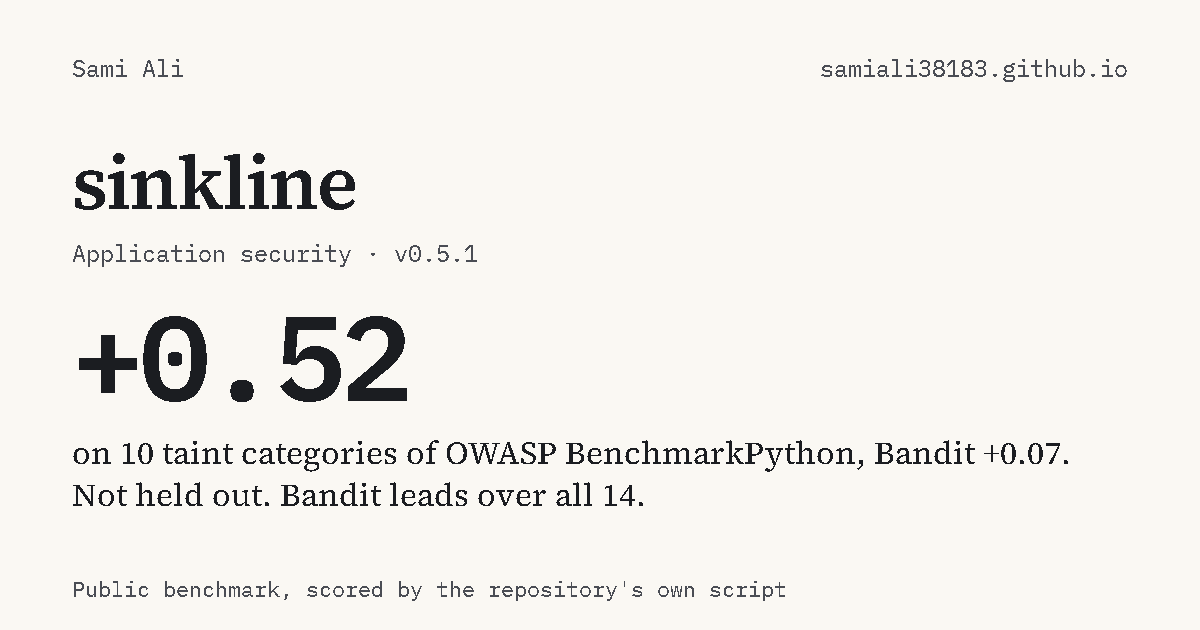
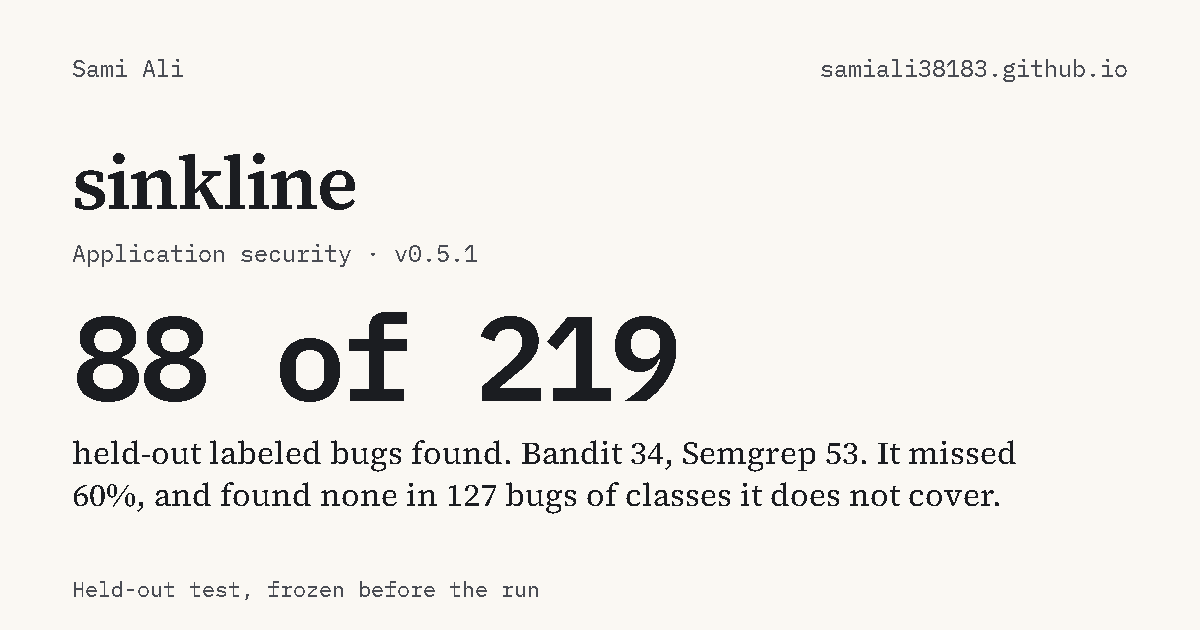
Lead sinkline with the held-out result, align hero buttons, fix archive heading order
sinkline now leads with the frozen held-out evaluation merged in the project repo (88 of 219 labeled bugs, Bandit 34, Semgrep 53); the earlier tuned benchmark stays below with its qualification. Resume and GitHub buttons share one height. Archive project names are h2 so heading order is sequential.

diff --git a/projects/sinkline/index.html b/projects/sinkline/index.html
@@ -4,7 +4,7 @@
 <meta charset="utf-8">
 <meta name="viewport" content="width=device-width, initial-scale=1">
 <title>sinkline: taint analysis for Python web apps | Sami Ali</title>
-<meta name="description" content="sinkline follows request data across functions and files. On BenchmarkPython it scores +0.52 on taint categories vs Bandit +0.07, but trails Bandit over all 14.">
+<meta name="description" content="sinkline follows request data across functions and files. On a frozen held-out set of 219 labeled bugs it found 88, against 34 for Bandit and 53 for Semgrep, and missed 60%.">
 <link rel="canonical" href="https://samiali38183.github.io/projects/sinkline/">
 <link rel="icon" href="/favicon.svg" type="image/svg+xml">
 <meta name="theme-color" content="#FAF8F3" media="(prefers-color-scheme: light)">
@@ -12,17 +12,17 @@
 <meta property="og:type" content="website">
 <meta property="og:site_name" content="Sami Ali">
 <meta property="og:title" content="sinkline: taint analysis for Python web apps | Sami Ali">
-<meta property="og:description" content="sinkline follows request data across functions and files. On BenchmarkPython it scores +0.52 on taint categories vs Bandit +0.07, but trails Bandit over all 14.">
+<meta property="og:description" content="sinkline follows request data across functions and files. On a frozen held-out set of 219 labeled bugs it found 88, against 34 for Bandit and 53 for Semgrep, and missed 60%.">
 <meta property="og:url" content="https://samiali38183.github.io/projects/sinkline/">
 <meta property="og:image" content="https://samiali38183.github.io/assets/og/sinkline.png">
 <meta property="og:image:width" content="1200">
 <meta property="og:image:height" content="630">
-<meta property="og:image:alt" content="sinkline: +0.52 on 10 taint categories of OWASP BenchmarkPython, Bandit +0.07. Not held out. Bandit leads over all 14.">
+<meta property="og:image:alt" content="sinkline: 88 of 219 held-out labeled bugs found. Bandit 34, Semgrep 53. It missed 60%, and found none in 127 bugs of classes it does not cover.">
 <meta name="twitter:card" content="summary_large_image">
 <meta name="twitter:title" content="sinkline: taint analysis for Python web apps | Sami Ali">
-<meta name="twitter:description" content="sinkline follows request data across functions and files. On BenchmarkPython it scores +0.52 on taint categories vs Bandit +0.07, but trails Bandit over all 14.">
+<meta name="twitter:description" content="sinkline follows request data across functions and files. On a frozen held-out set of 219 labeled bugs it found 88, against 34 for Bandit and 53 for Semgrep, and missed 60%.">
 <meta name="twitter:image" content="https://samiali38183.github.io/assets/og/sinkline.png">
-<meta name="twitter:image:alt" content="sinkline: +0.52 on 10 taint categories of OWASP BenchmarkPython, Bandit +0.07. Not held out. Bandit leads over all 14.">
+<meta name="twitter:image:alt" content="sinkline: 88 of 219 held-out labeled bugs found. Bandit 34, Semgrep 53. It missed 60%, and found none in 127 bugs of classes it does not cover.">
 <link rel="preload" href="/assets/fonts/source-serif-4-latin-wght-normal.woff2" as="font" type="font/woff2" crossorigin>
 <link rel="stylesheet" href="/assets/css/site.css">
 </head>
@@ -46,10 +46,10 @@
 <header class="title has-hero">
 <p class="crumb"><a href="/projects/">Work</a> <span aria-hidden="true">/</span> Application security <span class="ver">v0.5.1</span></p>
 <h1>sinkline</h1>
-<div class="overview prose"><p>sinkline is a static analyzer for Python web apps. It follows attacker-controlled input across functions and files and reports a finding only when the input reaches a dangerous call, such as a SQL query or a shell command, without a sanitizer for that bug class. It has 43 rules and 151 sink signatures mapped to OWASP Top 10 and CWE, SARIF output and a GitHub Action, and it has no dependencies.</p><p>It was measured on OWASP BenchmarkPython v0.1, a public suite of 240 vulnerable and 437 safe cases. The score is true-positive rate minus false-positive rate on the ten taint categories. Version 0.4.1 scored +0.21 (TPR 0.41, FPR 0.20) against Bandit&#x27;s +0.07. Version 0.5.1 scores +0.52 (TPR 0.73, FPR 0.21).</p><p>Those fixes were chosen by reading the failures of 0.4.1 on the same suite, so +0.52 is not a held-out score. Over all 14 categories Bandit leads, +0.36 to +0.27. The false-positive rate stays high, and the scorer is the repository&#x27;s own script, not the benchmark&#x27;s official one.</p><p>A separate sample report page shows sinkline&#x27;s HTML output.</p></div>
+<div class="overview prose"><p>sinkline is a static analyzer for Python web apps. It follows attacker-controlled input across functions and files and reports a finding only when the input reaches a dangerous call, such as a SQL query or a shell command, without a sanitizer for that bug class. It has 43 rules mapped to OWASP Top 10 and CWE, SARIF output and a GitHub Action, and it has no dependencies.</p><p>Held-out result: 346 labeled bugs from CodeQL&#x27;s Python query tests, with labels, scorer and rules frozen before anything was run and no tuning afterwards. On the 219 bugs in classes sinkline has rules for, it found 88 (40%), with 77% of its findings real. Bandit found 34 (16%) at 77%, and Semgrep OSS with its registry rules found 53 (24%) at 46%. On the 127 bugs in classes it does not attempt, such as weak crypto and cookie flags, it found none and Bandit found 30.</p><p>Turning the interprocedural analysis off changed nothing on this set, so its snippets do not test it. The earlier figures are not held out: on OWASP BenchmarkPython&#x27;s ten taint categories 0.4.1 scored +0.21 and 0.5.1 scores +0.52 (Bandit +0.07), but those fixes were chosen from the failures of 0.4.1, and over all 14 categories Bandit leads.</p><p>A separate sample report page shows sinkline&#x27;s HTML output.</p></div>
 <ul class="linkrow"><li><a href="#try">Try it</a></li><li><a href="#limits">Limits</a></li><li><a href="https://github.com/samiali38183/sinkline">Repository</a></li><li><a href="https://github.com/samiali38183/sinkline/releases/tag/v0.5.1">Release v0.5.1</a></li><li><a href="https://github.com/samiali38183/sinkline/blob/main/bench/external/README.md">External benchmark</a></li><li><a href="https://github.com/samiali38183/sinkline/blob/main/docs/DESIGN.md">Design doc</a></li><li><a href="https://github.com/samiali38183/sinkline/actions/runs/43136290658">CI run (main)</a></li><li><a href="https://samiali38183.github.io/sinkline/">Sample HTML report</a></li></ul>
 
-<figure class="hero-fig page-hero"><div class="hero-card"><a class="hero-zoom" href="/assets/img/hero-sinkline.png" aria-label="Open the sinkline result image at full size"><img src="/assets/img/hero-sinkline.png" width="1800" height="1100" alt="Bar chart on OWASP BenchmarkPython, 240 vulnerable and 437 safe test cases. Real bugs found: sinkline 0.5.0 175 (73%), sinkline 0.4.1 99 (41%), Bandit 31 (13%), Semgrep 18 (8%). Safe cases wrongly flagged: sinkline 0.5.0 93 (21%), 0.4.1 89 (20%), Bandit 25 (6%), Semgrep 15 (3%)." fetchpriority="high" decoding="async"></a></div><figcaption>On an independent benchmark, sinkline 0.5.0 found 175 of 240 real bugs against 31 for Bandit and 18 for Semgrep, and it also flagged more safe code (21% of safe cases against 6% and 3%). 0.4.1, before I tuned on the suite&#x27;s misses, found 99.</figcaption></figure>
+<figure class="hero-fig page-hero"><div class="hero-card"><a class="hero-zoom" href="/assets/img/hero-sinkline-heldout.png" aria-label="Open the sinkline held-out result image at full size"><img src="/assets/img/hero-sinkline-heldout.png" width="1600" height="672" alt="Recall and precision of sinkline, Bandit and Semgrep on a held-out set of CodeQL&#x27;s Python test cases. Taint classes, 219 labeled bugs: sinkline recall 0.40, precision 0.77; Bandit 0.16 and 0.77; Semgrep 0.24 and 0.46. Property classes, 127 labeled bugs: sinkline 0.00 recall, Bandit 0.24, Semgrep 0.18." fetchpriority="high" decoding="async"></a></div><figcaption>Held-out test: 346 labeled bugs from CodeQL&#x27;s Python query tests, with labels, scorer and rules frozen before the run and no tuning afterwards. On the 219 bugs in classes sinkline covers it found 88 (40%); Bandit found 34 and Semgrep 53.</figcaption></figure>
 </header>
 <section class="reading-band" aria-label="The result">
 <div class="hero-read">
@@ -62,7 +62,7 @@
 <ul class="key" aria-label="How to read the strips"><li><span class="strip" aria-hidden="true"><i data-s="hit"></i></span>vulnerable cases reported</li><li><span class="strip" aria-hidden="true"><i data-s="miss"></i></span>vulnerable cases missed</li><li><span class="strip" aria-hidden="true"><i data-s="fp"></i></span>safe cases flagged</li><li><span class="strip" aria-hidden="true"><i data-s="neg"></i></span>safe cases left alone</li><li>Each tick is about 10 test cases; the counts are in the labels.</li></ul>
 <div class="strips vt" style="--vt:strip-sinkline"><div class="srow"><span class="label" aria-hidden="true">Before</span><div class="strip long" role="img" aria-label="Before, 677 test cases: 99 vulnerable cases reported, 141 vulnerable cases missed, 89 safe cases flagged, 348 safe cases left alone"><i data-s="hit"></i><i data-s="hit"></i><i data-s="hit"></i><i data-s="hit"></i><i data-s="hit"></i><i data-s="hit"></i><i data-s="hit"></i><i data-s="hit"></i><i data-s="hit"></i><i data-s="hit"></i><i data-s="miss"></i><i data-s="miss"></i><i data-s="miss"></i><i data-s="miss"></i><i data-s="miss"></i><i data-s="miss"></i><i data-s="miss"></i><i data-s="miss"></i><i data-s="miss"></i><i data-s="miss"></i><i data-s="miss"></i><i data-s="miss"></i><i data-s="miss"></i><i data-s="miss"></i><i data-s="fp"></i><i data-s="fp"></i><i data-s="fp"></i><i data-s="fp"></i><i data-s="fp"></i><i data-s="fp"></i><i data-s="fp"></i><i data-s="fp"></i><i data-s="fp"></i><i data-s="neg"></i><i data-s="neg"></i><i data-s="neg"></i><i data-s="neg"></i><i data-s="neg"></i><i data-s="neg"></i><i data-s="neg"></i><i data-s="neg"></i><i data-s="neg"></i><i data-s="neg"></i><i data-s="neg"></i><i data-s="neg"></i><i data-s="neg"></i><i data-s="neg"></i><i data-s="neg"></i><i data-s="neg"></i><i data-s="neg"></i><i data-s="neg"></i><i data-s="neg"></i><i data-s="neg"></i><i data-s="neg"></i><i data-s="neg"></i><i data-s="neg"></i><i data-s="neg"></i><i data-s="neg"></i><i data-s="neg"></i><i data-s="neg"></i><i data-s="neg"></i><i data-s="neg"></i><i data-s="neg"></i><i data-s="neg"></i><i data-s="neg"></i><i data-s="neg"></i><i data-s="neg"></i><i data-s="neg"></i></div><p class="val">sinkline 0.4.1: TP 99, FN 141, FP 89, TN 348. Score <b>+0.21</b></p></div><div class="srow"><span class="label" aria-hidden="true">After</span><div class="strip long" role="img" aria-label="After, 677 test cases: 175 vulnerable cases reported, 65 vulnerable cases missed, 93 safe cases flagged, 344 safe cases left alone"><i data-s="hit"></i><i data-s="hit"></i><i data-s="hit"></i><i data-s="hit"></i><i data-s="hit"></i><i data-s="hit"></i><i data-s="hit"></i><i data-s="hit"></i><i data-s="hit"></i><i data-s="hit"></i><i data-s="hit"></i><i data-s="hit"></i><i data-s="hit"></i><i data-s="hit"></i><i data-s="hit"></i><i data-s="hit"></i><i data-s="hit"></i><i data-s="hit"></i><i data-s="miss"></i><i data-s="miss"></i><i data-s="miss"></i><i data-s="miss"></i><i data-s="miss"></i><i data-s="miss"></i><i data-s="miss"></i><i data-s="fp"></i><i data-s="fp"></i><i data-s="fp"></i><i data-s="fp"></i><i data-s="fp"></i><i data-s="fp"></i><i data-s="fp"></i><i data-s="fp"></i><i data-s="fp"></i><i data-s="neg"></i><i data-s="neg"></i><i data-s="neg"></i><i data-s="neg"></i><i data-s="neg"></i><i data-s="neg"></i><i data-s="neg"></i><i data-s="neg"></i><i data-s="neg"></i><i data-s="neg"></i><i data-s="neg"></i><i data-s="neg"></i><i data-s="neg"></i><i data-s="neg"></i><i data-s="neg"></i><i data-s="neg"></i><i data-s="neg"></i><i data-s="neg"></i><i data-s="neg"></i><i data-s="neg"></i><i data-s="neg"></i><i data-s="neg"></i><i data-s="neg"></i><i data-s="neg"></i><i data-s="neg"></i><i data-s="neg"></i><i data-s="neg"></i><i data-s="neg"></i><i data-s="neg"></i><i data-s="neg"></i><i data-s="neg"></i><i data-s="neg"></i><i data-s="neg"></i><i data-s="neg"></i></div><p class="val">sinkline 0.5.1: TP 175, FN 65, FP 93, TN 344. Score <b>+0.52</b></p></div></div>
 </section>
-
+<figure class="hero-fig hero-second"><div class="hero-card"><a class="hero-zoom" href="/assets/img/hero-sinkline.png" aria-label="Open the sinkline benchmark chart image at full size"><img src="/assets/img/hero-sinkline.png" width="1800" height="1100" alt="Bar chart on OWASP BenchmarkPython, 240 vulnerable and 437 safe test cases. Real bugs found: sinkline 0.5.0 175 (73%), sinkline 0.4.1 99 (41%), Bandit 31 (13%), Semgrep 18 (8%). Safe cases wrongly flagged: sinkline 0.5.0 93 (21%), 0.4.1 89 (20%), Bandit 25 (6%), Semgrep 15 (3%)." loading="lazy" decoding="async"></a></div><figcaption>The earlier benchmark: on OWASP BenchmarkPython, sinkline 0.5.0 found 175 of 240 real bugs against 31 for Bandit and 18 for Semgrep, and flagged more safe code. These fixes were chosen from the suite&#x27;s misses, so it is not a held-out result.</figcaption></figure>
 <div class="try-head"><h2>Try it</h2><p>Switch one small Flask app between unsafe, right sanitizer and wrong sanitizer, and read the real scanner output.</p></div>
 <section class="bench" id="try" data-bench="sinkline" aria-label="Recorded readings">
 <figure class="plate">

diff --git a/index.html b/index.html
@@ -61,7 +61,7 @@
 
 <section class="section" aria-labelledby="work">
 <h2 id="work">Selected work</h2>
-<ol class="feats"><li class="feat"><div class="feat-text"><p class="meta"><span class="no">01</span> Detection engineering <span class="ver">v0.3.0</span></p><h3><a href="/projects/tripline/">tripline</a></h3><p class="blurb">A CI gate for detection rules. It replays recorded ATT&amp;CK telemetry through Sigma rules and fails the build when an expected rule stays quiet. The stock SigmaHQ setuid rule flagged 0 of 2 attack events in the recording; the replacement flags both.</p><p class="links"><a href="/projects/tripline/">Write-up</a> <a href="https://github.com/samiali38183/tripline">Source</a> <a href="https://samiali38183.github.io/tripline/">Live report</a></p></div><figure class="shot"><a class="hero-zoom" href="/projects/tripline/" tabindex="-1" aria-hidden="true"><div class="hero-card"><img src="/assets/img/hero-tripline.png" width="1800" height="1100" alt="Left: a published SigmaHQ rule flagged 0 of 2 recorded setuid attack commands while the replacement rule written in this repo flagged 2 of 2. Right: weighted coverage across 14 ATT&amp;CK scenarios is 52% on unmodified SigmaHQ rules and 98% with the rules written in this repo." loading="lazy" decoding="async"></div></a><figcaption><span class="tag">Recorded telemetry, replayed offline</span></figcaption></figure></li><li class="feat"><div class="feat-text"><p class="meta"><span class="no">02</span> Application security <span class="ver">v0.5.1</span></p><h3><a href="/projects/sinkline/">sinkline</a></h3><p class="blurb">A static taint analyzer for Python web apps. On the ten taint categories of OWASP BenchmarkPython it scores +0.52 (true-positive rate minus false-positive rate) against Bandit&#x27;s +0.07, but the fixes were tuned on earlier failures, and Bandit leads over all 14 categories.</p><p class="links"><a href="/projects/sinkline/">Write-up</a> <a href="https://github.com/samiali38183/sinkline">Source</a> <a href="https://samiali38183.github.io/sinkline/">Sample report</a></p></div><figure class="shot"><a class="hero-zoom" href="/projects/sinkline/" tabindex="-1" aria-hidden="true"><div class="hero-card"><img src="/assets/img/hero-sinkline.png" width="1800" height="1100" alt="Bar chart on OWASP BenchmarkPython, 240 vulnerable and 437 safe test cases. Real bugs found: sinkline 0.5.0 175 (73%), sinkline 0.4.1 99 (41%), Bandit 31 (13%), Semgrep 18 (8%). Safe cases wrongly flagged: sinkline 0.5.0 93 (21%), 0.4.1 89 (20%), Bandit 25 (6%), Semgrep 15 (3%)." loading="lazy" decoding="async"></div></a><figcaption><span class="tag">Public benchmark, scored by the repository&#x27;s own script</span></figcaption></figure></li><li class="feat"><div class="feat-text"><p class="meta"><span class="no">03</span> Vulnerability management and DevSecOps <span class="ver">v0.1.1</span></p><h3><a href="/projects/kevgate/">kevgate</a></h3><p class="blurb">A FastAPI intake service that ranks scanner findings by CISA KEV, EPSS, CVSS and asset criticality. On one real scan of four old public images, all 10 exploited findings rank in the top 10 of 1,112, partly by design because KEV is a score input.</p><p class="links"><a href="/projects/kevgate/">Write-up</a> <a href="https://github.com/samiali38183/kevgate">Source</a></p></div><figure class="shot"><a class="hero-zoom" href="/projects/kevgate/" tabindex="-1" aria-hidden="true"><div class="hero-card"><img src="/assets/img/hero-kevgate-real-run.png" width="1800" height="1020" alt="Left: for each of the 10 exploited findings, the grey marker shows where a CVSS-only sort puts it, between about rank 2 and rank 610, and the red dot shows kevgate&#x27;s rank, 1 to 10. Right: exploited findings found in the top 10, 25, 50 and 100 positions, CVSS only 0.15, 0.4, 0.86 and 1.75, kevgate 10 each." loading="lazy" decoding="async"></div></a><figcaption><span class="tag">Real scan of four public images</span></figcaption></figure></li><li class="feat"><div class="feat-text"><p class="meta"><span class="no">04</span> Web security training lab, Python <span class="ver">v0.1.1</span></p><h3><a href="/projects/vulnlab/">vulnlab</a></h3><p class="blurb">Three small Flask apps with one planted bug each: SSRF through a redirect, SQL injection in ORDER BY and a missing permission check. Each has an exploit test, a fix and a detection rule. Localhost only; 137 tests pass.</p><p class="links"><a href="/projects/vulnlab/">Write-up</a> <a href="https://github.com/samiali38183/vulnlab">Source</a></p></div><figure class="shot"><a class="hero-zoom" href="/projects/vulnlab/" tabindex="-1" aria-hidden="true"><div class="hero-card"><img src="/assets/img/hero-vulnlab.png" width="1800" height="1100" alt="Table for three labs (SSRF via redirect, SQL injection, IDOR). Proof and fix: 26, 9 and 37 lab tests pass. sinkline scan on vulnerable and fixed code: 1 and 1 findings for SSRF and SQL injection (a correct finding, then a false alarm on the fix), 0 and 0 for IDOR because it is not a taint flow. Sigma log rule: 1 alert on the attack log and 0 on the benign log for all three." loading="lazy" decoding="async"></div></a><figcaption><span class="tag">Own code, loopback only</span></figcaption></figure></li></ol>
+<ol class="feats"><li class="feat"><div class="feat-text"><p class="meta"><span class="no">01</span> Detection engineering <span class="ver">v0.3.0</span></p><h3><a href="/projects/tripline/">tripline</a></h3><p class="blurb">A CI gate for detection rules. It replays recorded ATT&amp;CK telemetry through Sigma rules and fails the build when an expected rule stays quiet. The stock SigmaHQ setuid rule flagged 0 of 2 attack events in the recording; the replacement flags both.</p><p class="links"><a href="/projects/tripline/">Write-up</a> <a href="https://github.com/samiali38183/tripline">Source</a> <a href="https://samiali38183.github.io/tripline/">Live report</a></p></div><figure class="shot"><a class="hero-zoom" href="/projects/tripline/" tabindex="-1" aria-hidden="true"><div class="hero-card"><img src="/assets/img/hero-tripline.png" width="1800" height="1100" alt="Left: a published SigmaHQ rule flagged 0 of 2 recorded setuid attack commands while the replacement rule written in this repo flagged 2 of 2. Right: weighted coverage across 14 ATT&amp;CK scenarios is 52% on unmodified SigmaHQ rules and 98% with the rules written in this repo." loading="lazy" decoding="async"></div></a><figcaption><span class="tag">Recorded telemetry, replayed offline</span></figcaption></figure></li><li class="feat"><div class="feat-text"><p class="meta"><span class="no">02</span> Application security <span class="ver">v0.5.1</span></p><h3><a href="/projects/sinkline/">sinkline</a></h3><p class="blurb">A static taint analyzer for Python web apps. On a held-out set of 219 labeled bugs from CodeQL&#x27;s Python tests it found 88, against 34 for Bandit and 53 for Semgrep, and missed 60%. Labels and scorer were frozen before the run.</p><p class="links"><a href="/projects/sinkline/">Write-up</a> <a href="https://github.com/samiali38183/sinkline">Source</a> <a href="https://samiali38183.github.io/sinkline/">Sample report</a></p></div><figure class="shot"><a class="hero-zoom" href="/projects/sinkline/" tabindex="-1" aria-hidden="true"><div class="hero-card"><img src="/assets/img/hero-sinkline-heldout.png" width="1600" height="672" alt="Recall and precision of sinkline, Bandit and Semgrep on a held-out set of CodeQL&#x27;s Python test cases. Taint classes, 219 labeled bugs: sinkline recall 0.40, precision 0.77; Bandit 0.16 and 0.77; Semgrep 0.24 and 0.46. Property classes, 127 labeled bugs: sinkline 0.00 recall, Bandit 0.24, Semgrep 0.18." loading="lazy" decoding="async"></div></a><figcaption><span class="tag">Held-out test, frozen before the run</span></figcaption></figure></li><li class="feat"><div class="feat-text"><p class="meta"><span class="no">03</span> Vulnerability management and DevSecOps <span class="ver">v0.1.1</span></p><h3><a href="/projects/kevgate/">kevgate</a></h3><p class="blurb">A FastAPI intake service that ranks scanner findings by CISA KEV, EPSS, CVSS and asset criticality. On one real scan of four old public images, all 10 exploited findings rank in the top 10 of 1,112, partly by design because KEV is a score input.</p><p class="links"><a href="/projects/kevgate/">Write-up</a> <a href="https://github.com/samiali38183/kevgate">Source</a></p></div><figure class="shot"><a class="hero-zoom" href="/projects/kevgate/" tabindex="-1" aria-hidden="true"><div class="hero-card"><img src="/assets/img/hero-kevgate-real-run.png" width="1800" height="1020" alt="Left: for each of the 10 exploited findings, the grey marker shows where a CVSS-only sort puts it, between about rank 2 and rank 610, and the red dot shows kevgate&#x27;s rank, 1 to 10. Right: exploited findings found in the top 10, 25, 50 and 100 positions, CVSS only 0.15, 0.4, 0.86 and 1.75, kevgate 10 each." loading="lazy" decoding="async"></div></a><figcaption><span class="tag">Real scan of four public images</span></figcaption></figure></li><li class="feat"><div class="feat-text"><p class="meta"><span class="no">04</span> Web security training lab, Python <span class="ver">v0.1.1</span></p><h3><a href="/projects/vulnlab/">vulnlab</a></h3><p class="blurb">Three small Flask apps with one planted bug each: SSRF through a redirect, SQL injection in ORDER BY and a missing permission check. Each has an exploit test, a fix and a detection rule. Localhost only; 137 tests pass.</p><p class="links"><a href="/projects/vulnlab/">Write-up</a> <a href="https://github.com/samiali38183/vulnlab">Source</a></p></div><figure class="shot"><a class="hero-zoom" href="/projects/vulnlab/" tabindex="-1" aria-hidden="true"><div class="hero-card"><img src="/assets/img/hero-vulnlab.png" width="1800" height="1100" alt="Table for three labs (SSRF via redirect, SQL injection, IDOR). Proof and fix: 26, 9 and 37 lab tests pass. sinkline scan on vulnerable and fixed code: 1 and 1 findings for SSRF and SQL injection (a correct finding, then a false alarm on the fix), 0 and 0 for IDOR because it is not a taint flow. Sigma log rule: 1 alert on the attack log and 0 on the benign log for all three." loading="lazy" decoding="async"></div></a><figcaption><span class="tag">Own code, loopback only</span></figcaption></figure></li></ol>
 <p class="more"><a href="/projects/">Work archive</a>: 3 more projects and call-kettle.</p>
 </section>
 

diff --git a/projects/index.html b/projects/index.html
@@ -44,7 +44,7 @@
 <main id="main" class="wrap">
 <h1>Work archive</h1>
 <p class="dek">Projects that are not featured on the <a href="/">home page</a>. Featured: <a href="/projects/tripline/">tripline</a>, <a href="/projects/sinkline/">sinkline</a>, <a href="/projects/kevgate/">kevgate</a>, <a href="/projects/vulnlab/">vulnlab</a>.</p>
-<ol class="archive"><li class="arow"><div class="a-head"><h3><a href="/projects/kevgate-admit/">kevgate-admit</a></h3><p class="meta">Kubernetes security, Go <span class="ver">v0.1.0</span></p></div><div class="a-body"><p class="blurb">A Go admission webhook for Kubernetes. It denies or warns on workloads whose container images carry KEV-listed or over-threshold vulnerabilities, using kevgate&#x27;s risk model. v0.1.0: 93 tests, 95% coverage, tested in a kind cluster with synthetic scan data.</p><p class="meta"><span class="tag">Synthetic scan data, kind cluster in CI</span></p><p class="links"><a href="/projects/kevgate-admit/">Write-up</a> <a href="https://github.com/samiali38183/kevgate-admit">Source</a></p></div></li><li class="arow"><div class="a-head"><h3><a href="/projects/fuzzdiff/">fuzzdiff</a></h3><p class="meta">Memory safety and fuzzing, Rust <span class="ver">v0.2.0</span></p></div><div class="a-body"><p class="blurb">picohttpparser ported from C to safe Rust and compared with the original and with httparse on the same input. No differences from C in 2,000,000 inputs, and 5 of 5 seeded bugs detected. No vulnerability found.</p><p class="meta"><span class="tag">Differential fuzzing, sampled</span></p><p class="links"><a href="/projects/fuzzdiff/">Write-up</a> <a href="https://github.com/samiali38183/fuzzdiff">Source</a></p></div></li><li class="arow"><div class="a-head"><h3><a href="/projects/kev-risk-prioritization/">kev-risk-prioritization</a></h3><p class="meta">Vulnerability management <span class="ver">v0.3.0</span></p></div><div class="a-body"><p class="blurb">A standard-library Python script that ranks scan findings with a weighted score of its own design, known-exploited CVEs first. On 20 synthetic findings it puts 12 of 12 KEV findings in its top 12 where a CVSS sort puts 9. Not an implementation of BOD 26-04.</p><p class="meta"><span class="tag">Synthetic findings, real KEV and EPSS snapshot</span></p><p class="links"><a href="/projects/kev-risk-prioritization/">Write-up</a> <a href="https://github.com/samiali38183/kev-risk-prioritization">Source</a></p></div></li><li class="arow"><div class="a-head"><h3><a href="/projects/call-kettle/">call-kettle</a></h3><p class="meta">AI agent security, Python</p></div><div class="a-body"><p class="blurb">Phone receptionist backend (FastAPI, Twilio, Claude tool use) where the model only proposes actions and server code authorizes each one. Includes a 48-case adversarial evaluation using a scripted model, 19 boundary-removal tests, an authorization matrix and documented security invariants.</p><p class="meta"><span class="tag">Scripted model, synthetic data</span></p><p class="links"><a href="/projects/call-kettle/">Write-up</a> <a href="https://github.com/samiali38183/call-kettle">Source</a></p></div></li></ol>
+<ol class="archive"><li class="arow"><div class="a-head"><h2><a href="/projects/kevgate-admit/">kevgate-admit</a></h2><p class="meta">Kubernetes security, Go <span class="ver">v0.1.0</span></p></div><div class="a-body"><p class="blurb">A Go admission webhook for Kubernetes. It denies or warns on workloads whose container images carry KEV-listed or over-threshold vulnerabilities, using kevgate&#x27;s risk model. v0.1.0: 93 tests, 95% coverage, tested in a kind cluster with synthetic scan data.</p><p class="meta"><span class="tag">Synthetic scan data, kind cluster in CI</span></p><p class="links"><a href="/projects/kevgate-admit/">Write-up</a> <a href="https://github.com/samiali38183/kevgate-admit">Source</a></p></div></li><li class="arow"><div class="a-head"><h2><a href="/projects/fuzzdiff/">fuzzdiff</a></h2><p class="meta">Memory safety and fuzzing, Rust <span class="ver">v0.2.0</span></p></div><div class="a-body"><p class="blurb">picohttpparser ported from C to safe Rust and compared with the original and with httparse on the same input. No differences from C in 2,000,000 inputs, and 5 of 5 seeded bugs detected. No vulnerability found.</p><p class="meta"><span class="tag">Differential fuzzing, sampled</span></p><p class="links"><a href="/projects/fuzzdiff/">Write-up</a> <a href="https://github.com/samiali38183/fuzzdiff">Source</a></p></div></li><li class="arow"><div class="a-head"><h2><a href="/projects/kev-risk-prioritization/">kev-risk-prioritization</a></h2><p class="meta">Vulnerability management <span class="ver">v0.3.0</span></p></div><div class="a-body"><p class="blurb">A standard-library Python script that ranks scan findings with a weighted score of its own design, known-exploited CVEs first. On 20 synthetic findings it puts 12 of 12 KEV findings in its top 12 where a CVSS sort puts 9. Not an implementation of BOD 26-04.</p><p class="meta"><span class="tag">Synthetic findings, real KEV and EPSS snapshot</span></p><p class="links"><a href="/projects/kev-risk-prioritization/">Write-up</a> <a href="https://github.com/samiali38183/kev-risk-prioritization">Source</a></p></div></li><li class="arow"><div class="a-head"><h2><a href="/projects/call-kettle/">call-kettle</a></h2><p class="meta">AI agent security, Python</p></div><div class="a-body"><p class="blurb">Phone receptionist backend (FastAPI, Twilio, Claude tool use) where the model only proposes actions and server code authorizes each one. Includes a 48-case adversarial evaluation using a scripted model, 19 boundary-removal tests, an authorization matrix and documented security invariants.</p><p class="meta"><span class="tag">Scripted model, synthetic data</span></p><p class="links"><a href="/projects/call-kettle/">Write-up</a> <a href="https://github.com/samiali38183/call-kettle">Source</a></p></div></li></ol>
 </main>
 <footer class="site-footer">
 <div class="wrap">

diff --git a/assets/css/site.css b/assets/css/site.css
@@ -517,9 +517,11 @@ main>.section{padding-top:var(--s-8)}
 .hero-read .why{max-width:34rem;font-size:var(--step--1);color:var(--ink-2);margin:0 0 var(--s-3)}
 .hero-read .why+.chips{align-items:center}
 .fold-tbl{margin:var(--s-4) 0}
-.actions{align-items:stretch}
-.actions .btn{display:flex;align-items:center;height:100%;min-height:2.9rem}
+.actions{align-items:center}
+.actions .btn{display:inline-flex;align-items:center;min-height:3rem;padding-block:0}
 .intro-text{max-width:44rem}
 .overview p:first-child{font-size:var(--step-0);line-height:1.6}
 .overview{margin-bottom:var(--s-5)}
 @media (min-width:70rem){.title.has-hero{grid-template-columns:minmax(0,11fr) minmax(0,12fr)}.title.has-hero .page-hero{position:sticky;top:var(--s-4);align-self:start}.overview p{font-size:1.0625rem}}
+.arow h2{font-size:var(--step-2);margin:0 0 var(--s-1)}
+.arow h2 a{color:var(--ink)}

diff --git a/scripts/check_facts.py b/scripts/check_facts.py
@@ -692,7 +692,7 @@ def main() -> int:
     results.append(("f1291485808b66e20ddb6b01b10dc71b3df8c8ba" in readme and "1,230" in readme,
                     "bench/external/README.md pins BenchmarkPython f1291485 and 1,230 cases"))
     expect("BenchmarkPython pin (short) on the page", "f129148", page)
-    expect("sinkline home blurb", "scores +0.52", "index.html")
+    expect("sinkline home blurb", "found 88", "index.html")
     expect("sinkline release v0.5.1 commit", run(["git", "rev-list", "-n1", "v0.5.1"], s).strip()[:7], page)
 
     # sinkline Sanitizer switch: stored data against the committed captures (the CLI re-run is capture_sinkline_bench.py --check)

diff --git a/scripts/pages.py b/scripts/pages.py
@@ -282,7 +282,7 @@ def home(ctx: dict) -> str:
 
 def archive_row(name: str, url: str, kind: str, ver: str, blurb: str, label: str, links: str) -> str:
     ver_html = f' <span class="ver">{esc(ver)}</span>' if ver else ""
-    return (f'<li class="arow"><div class="a-head"><h3><a href="{url}">{esc(name)}</a></h3>'
+    return (f'<li class="arow"><div class="a-head"><h2><a href="{url}">{esc(name)}</a></h2>'
             f'<p class="meta">{esc(kind)}{ver_html}</p></div>'
             f'<div class="a-body"><p class="blurb">{esc(blurb)}</p><p class="meta"><span class="tag">{esc(label)}</span></p>'
             f'<p class="links">{links}</p></div></li>')
